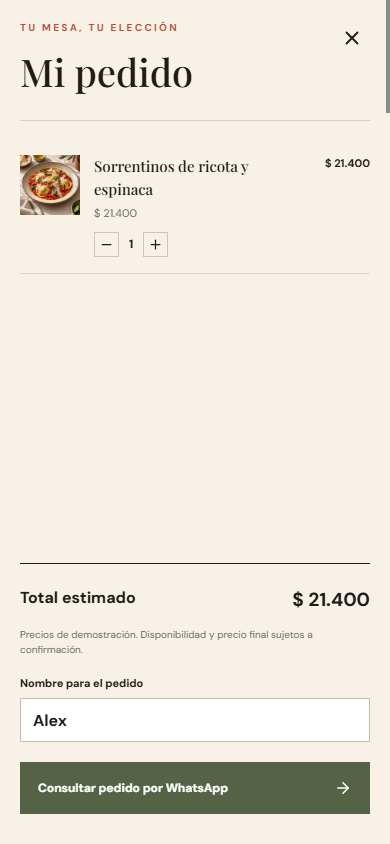
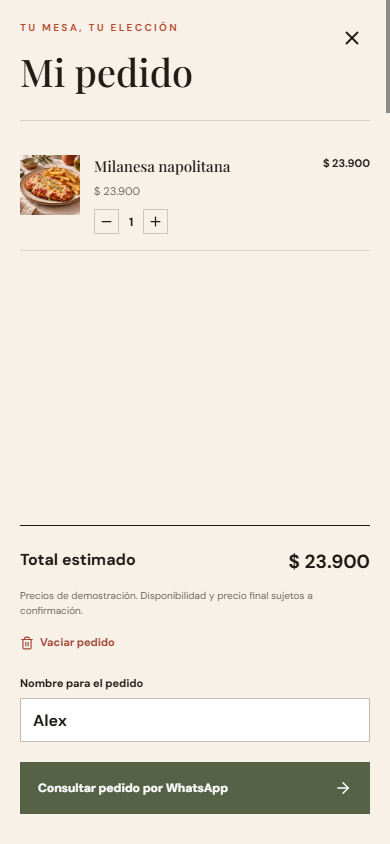
feat: let customers clear their order

diff --git a/src/components/MenuApp.tsx b/src/components/MenuApp.tsx
@@ -1,5 +1,5 @@
 import { useState } from 'react';
-import { ArrowRight, ChefHat, MapPin, Minus, Plus, ShoppingBag, Sparkles, Store, UtensilsCrossed, X } from 'lucide-react';
+import { ArrowRight, ChefHat, MapPin, Minus, Plus, ShoppingBag, Sparkles, Store, Trash2, UtensilsCrossed, X } from 'lucide-react';
 import { useCart } from '../store/cart';
 import { calculateTotal, createWhatsAppOrderUrl, formatPrice } from '../lib/cart.mjs';
 import ChatWidget from './ChatWidget';
@@ -26,6 +26,7 @@ export default function MenuApp({ items, categories, whatsappNumber }: { items: 
   const quantities = useCart((state) => state.quantities);
   const add = useCart((state) => state.add);
   const remove = useCart((state) => state.remove);
+  const clear = useCart((state) => state.clear);
   const count = Object.values(quantities).reduce((sum, quantity) => sum + quantity, 0);
   const total = calculateTotal(items, quantities);
   const visibleItems = activeCategory === 'todos' ? items : items.filter((item) => item.categoryId === activeCategory);
@@ -62,6 +63,6 @@ export default function MenuApp({ items, categories, whatsappNumber }: { items: 
 
     {count > 0 && !cartOpen && <button className="floating-cart" onClick={() => setCartOpen(true)}><ShoppingBag size={19}/><span>Ver mi pedido · {count} {count === 1 ? 'producto' : 'productos'}</span><strong>{formatPrice(total)}</strong></button>}
 
-    {cartOpen && <div className="drawer-overlay" onMouseDown={(event) => { if (event.target === event.currentTarget) setCartOpen(false); }}><aside className="cart-drawer" aria-label="Mi pedido"><div className="drawer-header"><div><p className="eyebrow">TU MESA, TU ELECCIÓN</p><h2>Mi pedido</h2></div><button className="icon-button" onClick={() => setCartOpen(false)} aria-label="Cerrar pedido"><X size={22}/></button></div>{selectedItems.length === 0 ? <div className="empty-cart"><ShoppingBag size={38}/><h3>Tu pedido está esperando</h3><p>Elegí algo rico de nuestra carta para empezar.</p><button className="primary-button" onClick={() => setCartOpen(false)}>Explorar la carta <ArrowRight size={17}/></button></div> : <><div className="cart-lines">{selectedItems.map((item) => <div className="cart-line" key={item.id}><img src={item.image} alt=""/><div><h3>{item.name}</h3><p>{formatPrice(item.price)}</p><div className="quantity-controls"><button onClick={() => remove(item.id)} aria-label={`Quitar uno de ${item.name}`}><Minus size={15}/></button><span>{quantities[item.id]}</span><button onClick={() => add(item.id)} aria-label={`Agregar uno de ${item.name}`}><Plus size={15}/></button></div></div><strong>{formatPrice(item.price * quantities[item.id])}</strong></div>)}</div><div className="cart-summary"><div><span>Total estimado</span><strong>{formatPrice(total)}</strong></div><p>Precios de demostración. Disponibilidad y precio final sujetos a confirmación.</p>{!serviceMode ? <button className="checkout-choose" onClick={() => { setCartOpen(false); document.getElementById('pedido')?.scrollIntoView({ behavior: 'smooth' }); }}>Elegir cómo pedir</button> : <div className="checkout-detail"><label htmlFor="checkout-detail">{serviceMode === 'table' ? 'Número de mesa' : 'Nombre para el pedido'}</label><input id="checkout-detail" value={serviceMode === 'table' ? tableNumber : customerName} onChange={(event) => serviceMode === 'table' ? setTableNumber(event.target.value) : setCustomerName(event.target.value)} placeholder={serviceMode === 'table' ? 'Ej.: 7' : 'Ej.: Alex'} maxLength={serviceMode === 'table' ? 10 : 60}/></div>}{checkoutUrl ? <a className="checkout-button" href={checkoutUrl} target="_blank" rel="noopener noreferrer">Consultar pedido por WhatsApp <ArrowRight size={18}/></a> : <p className="checkout-unavailable">{!whatsappNumber ? 'El envío por WhatsApp todavía no está configurado.' : !serviceMode ? 'Elegí cómo querés pedir para continuar.' : 'Completá el dato del pedido para continuar.'}</p>}</div></>}</aside></div>}
+    {cartOpen && <div className="drawer-overlay" onMouseDown={(event) => { if (event.target === event.currentTarget) setCartOpen(false); }}><aside className="cart-drawer" aria-label="Mi pedido"><div className="drawer-header"><div><p className="eyebrow">TU MESA, TU ELECCIÓN</p><h2>Mi pedido</h2></div><button className="icon-button" onClick={() => setCartOpen(false)} aria-label="Cerrar pedido"><X size={22}/></button></div>{selectedItems.length === 0 ? <div className="empty-cart"><ShoppingBag size={38}/><h3>Tu pedido está esperando</h3><p>Elegí algo rico de nuestra carta para empezar.</p><button className="primary-button" onClick={() => setCartOpen(false)}>Explorar la carta <ArrowRight size={17}/></button></div> : <><div className="cart-lines">{selectedItems.map((item) => <div className="cart-line" key={item.id}><img src={item.image} alt=""/><div><h3>{item.name}</h3><p>{formatPrice(item.price)}</p><div className="quantity-controls"><button onClick={() => remove(item.id)} aria-label={`Quitar uno de ${item.name}`}><Minus size={15}/></button><span>{quantities[item.id]}</span><button onClick={() => add(item.id)} aria-label={`Agregar uno de ${item.name}`}><Plus size={15}/></button></div></div><strong>{formatPrice(item.price * quantities[item.id])}</strong></div>)}</div><div className="cart-summary"><div><span>Total estimado</span><strong>{formatPrice(total)}</strong></div><p>Precios de demostración. Disponibilidad y precio final sujetos a confirmación.</p><button className="clear-cart" onClick={clear}><Trash2 size={14}/> Vaciar pedido</button>{!serviceMode ? <button className="checkout-choose" onClick={() => { setCartOpen(false); document.getElementById('pedido')?.scrollIntoView({ behavior: 'smooth' }); }}>Elegir cómo pedir</button> : <div className="checkout-detail"><label htmlFor="checkout-detail">{serviceMode === 'table' ? 'Número de mesa' : 'Nombre para el pedido'}</label><input id="checkout-detail" value={serviceMode === 'table' ? tableNumber : customerName} onChange={(event) => serviceMode === 'table' ? setTableNumber(event.target.value) : setCustomerName(event.target.value)} placeholder={serviceMode === 'table' ? 'Ej.: 7' : 'Ej.: Alex'} maxLength={serviceMode === 'table' ? 10 : 60}/></div>}{checkoutUrl ? <a className="checkout-button" href={checkoutUrl} target="_blank" rel="noopener noreferrer">Consultar pedido por WhatsApp <ArrowRight size={18}/></a> : <p className="checkout-unavailable">{!whatsappNumber ? 'El envío por WhatsApp todavía no está configurado.' : !serviceMode ? 'Elegí cómo querés pedir para continuar.' : 'Completá el dato del pedido para continuar.'}</p>}</div></>}</aside></div>}
   </>;
 }

diff --git a/src/styles/global.css b/src/styles/global.css
@@ -11,3 +11,4 @@
 @media(max-width:680px){.service-section{padding:65px 18px}.service-options{grid-template-columns:1fr;gap:10px}.service-option{min-height:130px;padding:18px}.service-heading h2{font-size:50px}}
 .chat-entry{display:flex;flex-direction:column;gap:8px;max-width:95%}.chat-entry.assistant{align-self:flex-start}.chat-entry.visitor{align-self:flex-end}.chat-entry .chat-message{max-width:100%}.suggested-dish{display:flex;align-items:center;gap:9px;background:#fff;border:1px solid #ded4ca;padding:8px;max-width:100%}.suggested-dish img{width:46px;height:46px;object-fit:cover}.suggested-dish>div{min-width:0;flex:1}.suggested-dish strong,.suggested-dish small{display:block}.suggested-dish strong{font-size:11px;line-height:1.2}.suggested-dish small{font-size:10px;color:#b74d35;margin-top:3px}.suggested-dish button{display:flex;gap:3px;align-items:center;border:1px solid #b74d35;background:#fff;color:#b74d35;padding:7px;font-size:10px;font-weight:800;white-space:nowrap}.suggested-dish button:hover{background:#b74d35;color:#fff}.checkout-detail{display:flex;flex-direction:column;gap:7px;margin-top:18px}.checkout-detail label{font-size:11px;font-weight:800}.checkout-detail input{height:44px;border:1px solid #c8b9ab;background:#fff;padding:0 12px;font-family:inherit}.checkout-detail input:focus{outline:1px solid #b74d35}.checkout-choose{margin-top:18px;width:100%;border:1px solid #b74d35;background:#fff;color:#b74d35;font-size:12px;font-weight:800;padding:13px}.checkout-choose:hover{background:#fcf5ef}
 .chat-mode-prompt{margin:0 22px 15px;padding:11px 13px;background:#f7f1e8;color:#514a44;font-size:11px;line-height:1.5}.chat-mode-prompt a{color:#b74d35;font-weight:800;text-decoration:underline}.chat-review-order{display:flex;align-items:center;gap:9px;margin:12px 22px 0;padding:11px 13px;border:1px solid #556246;background:#f5f8f2;color:#3f4b34;font-size:11px;font-weight:800;text-align:left}.chat-review-order:hover{background:#e9f0e3}.chat-review-order svg:last-child{margin-left:auto}.chat-form input:disabled{background:#f7f1e8;cursor:not-allowed}@media(max-width:480px){.chat-mode-prompt{margin:0 15px 12px}.chat-review-order{margin:12px 15px 0}}
+.clear-cart{display:inline-flex;align-items:center;gap:6px;margin-top:12px;border:0;background:transparent;padding:4px 0;color:#a24534;font-size:11px;font-weight:800}.clear-cart:hover{text-decoration:underline}
